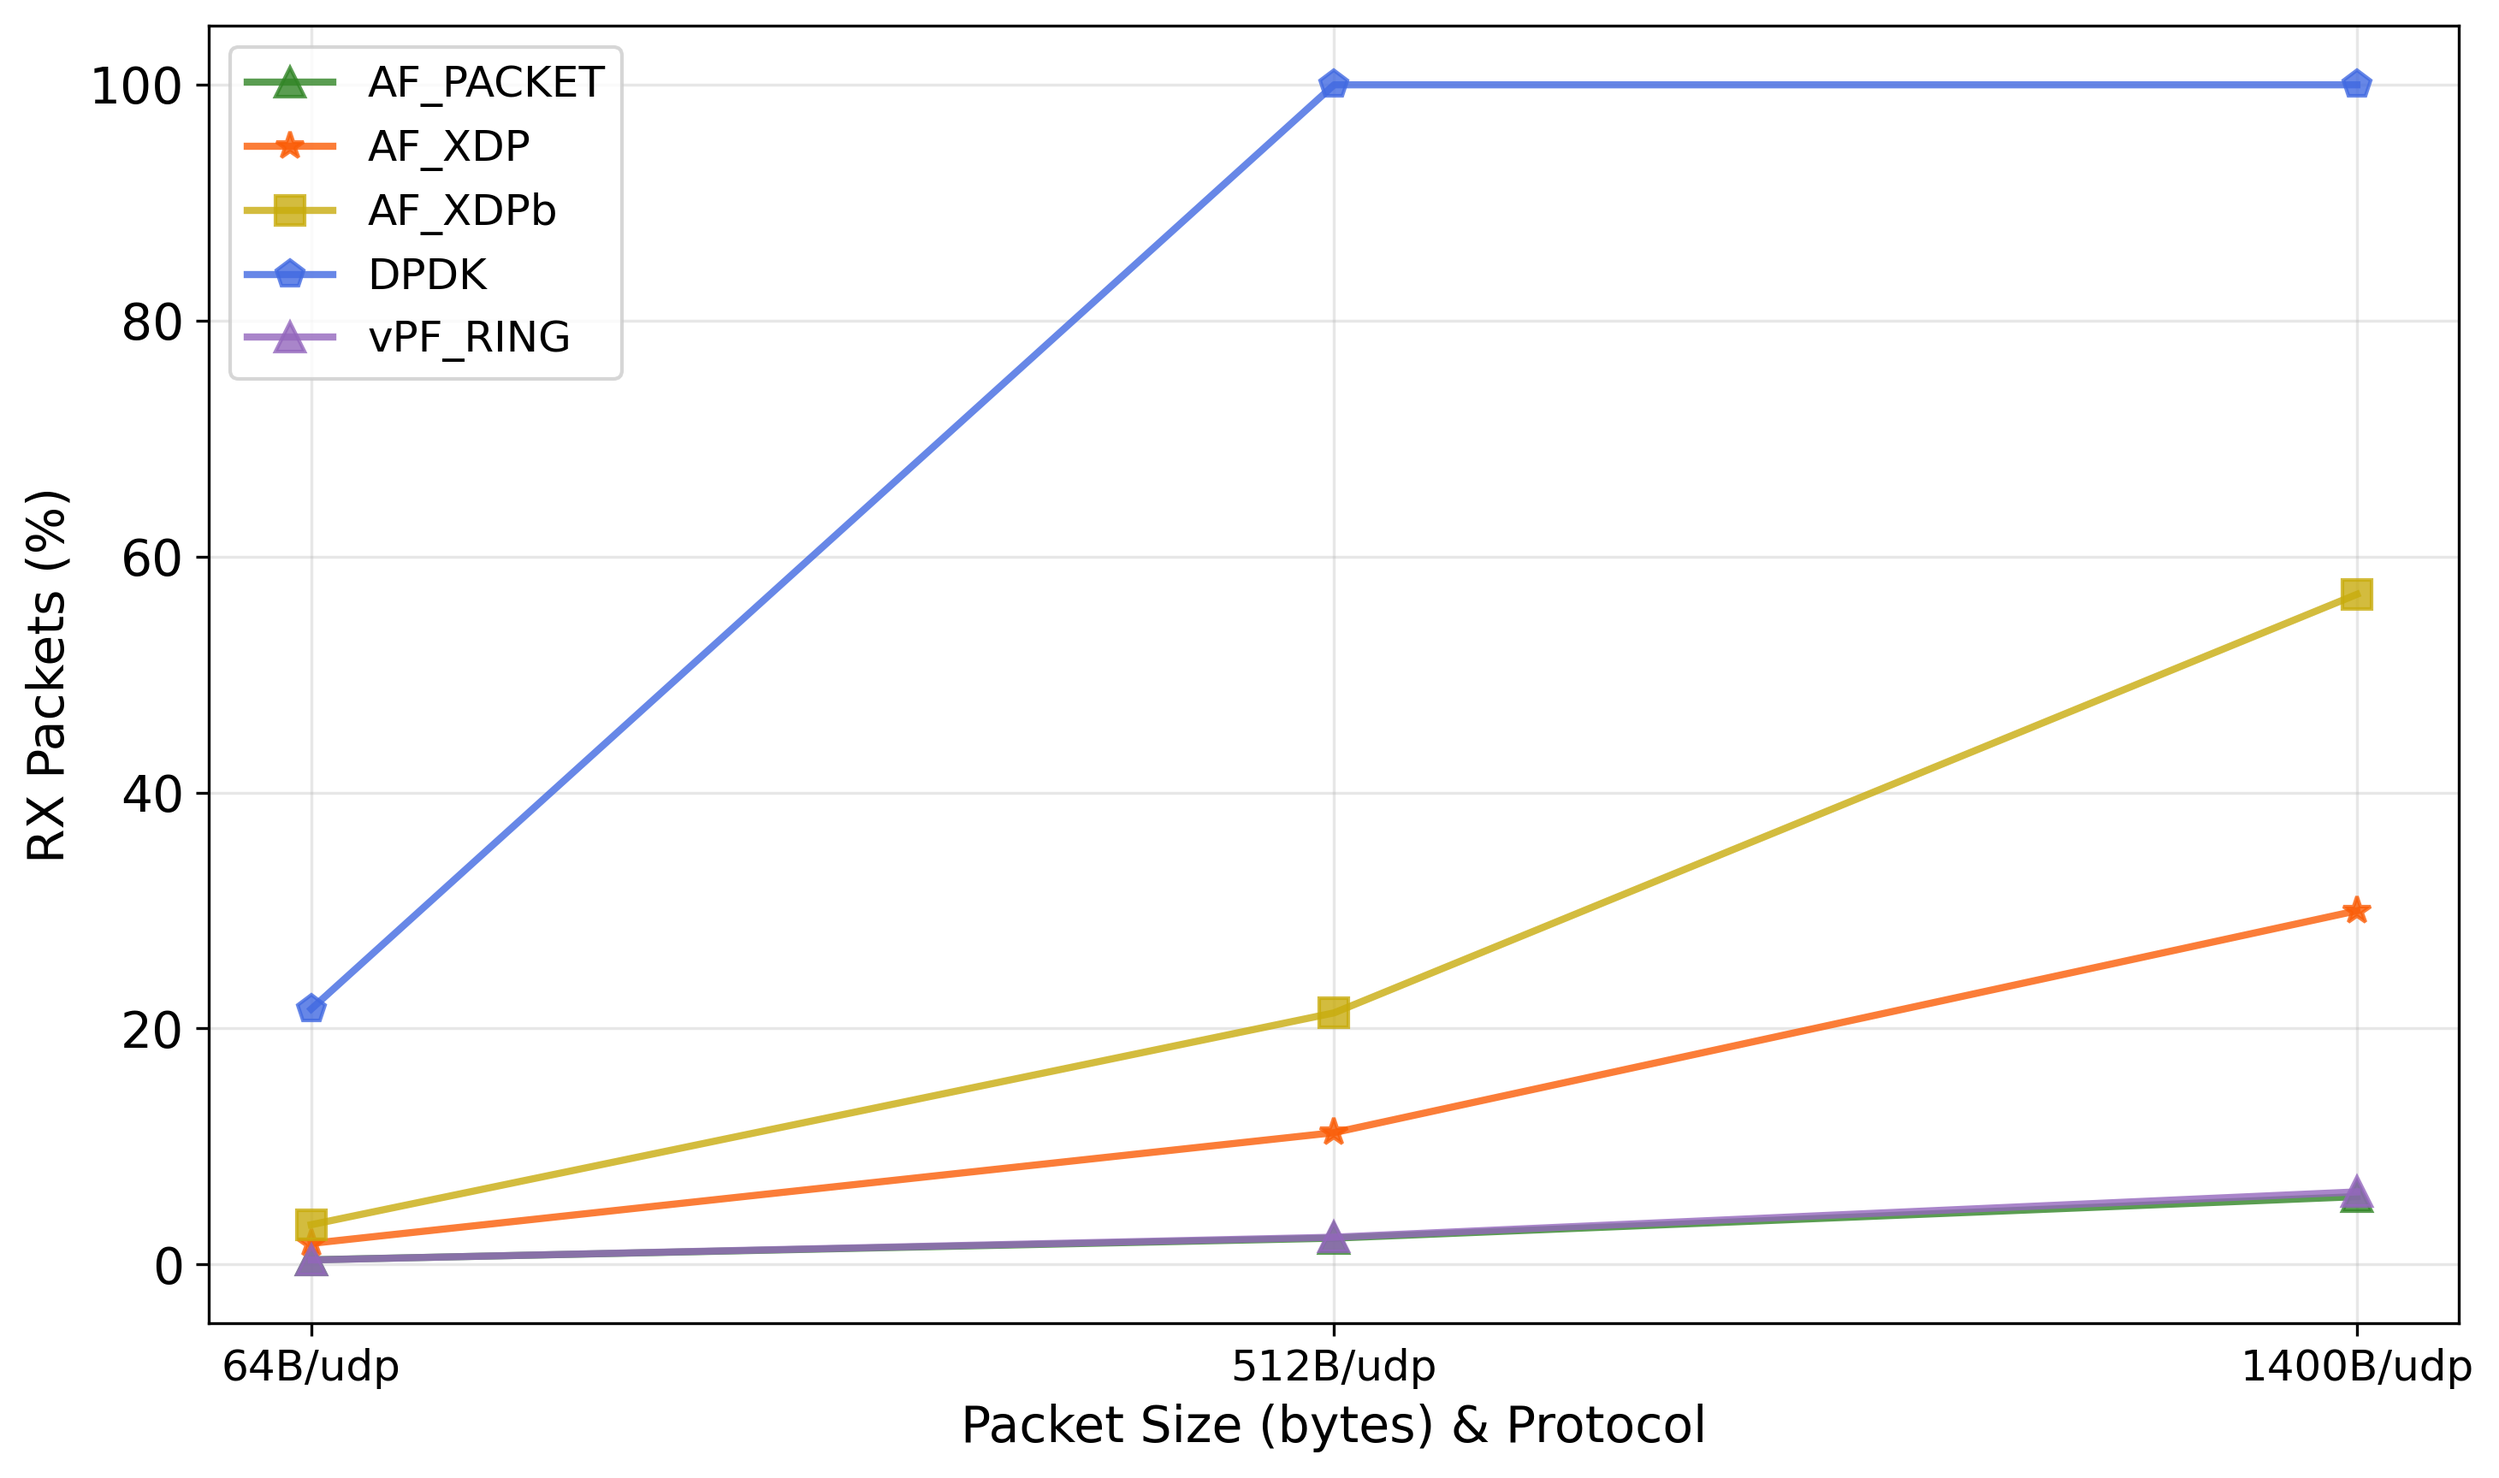
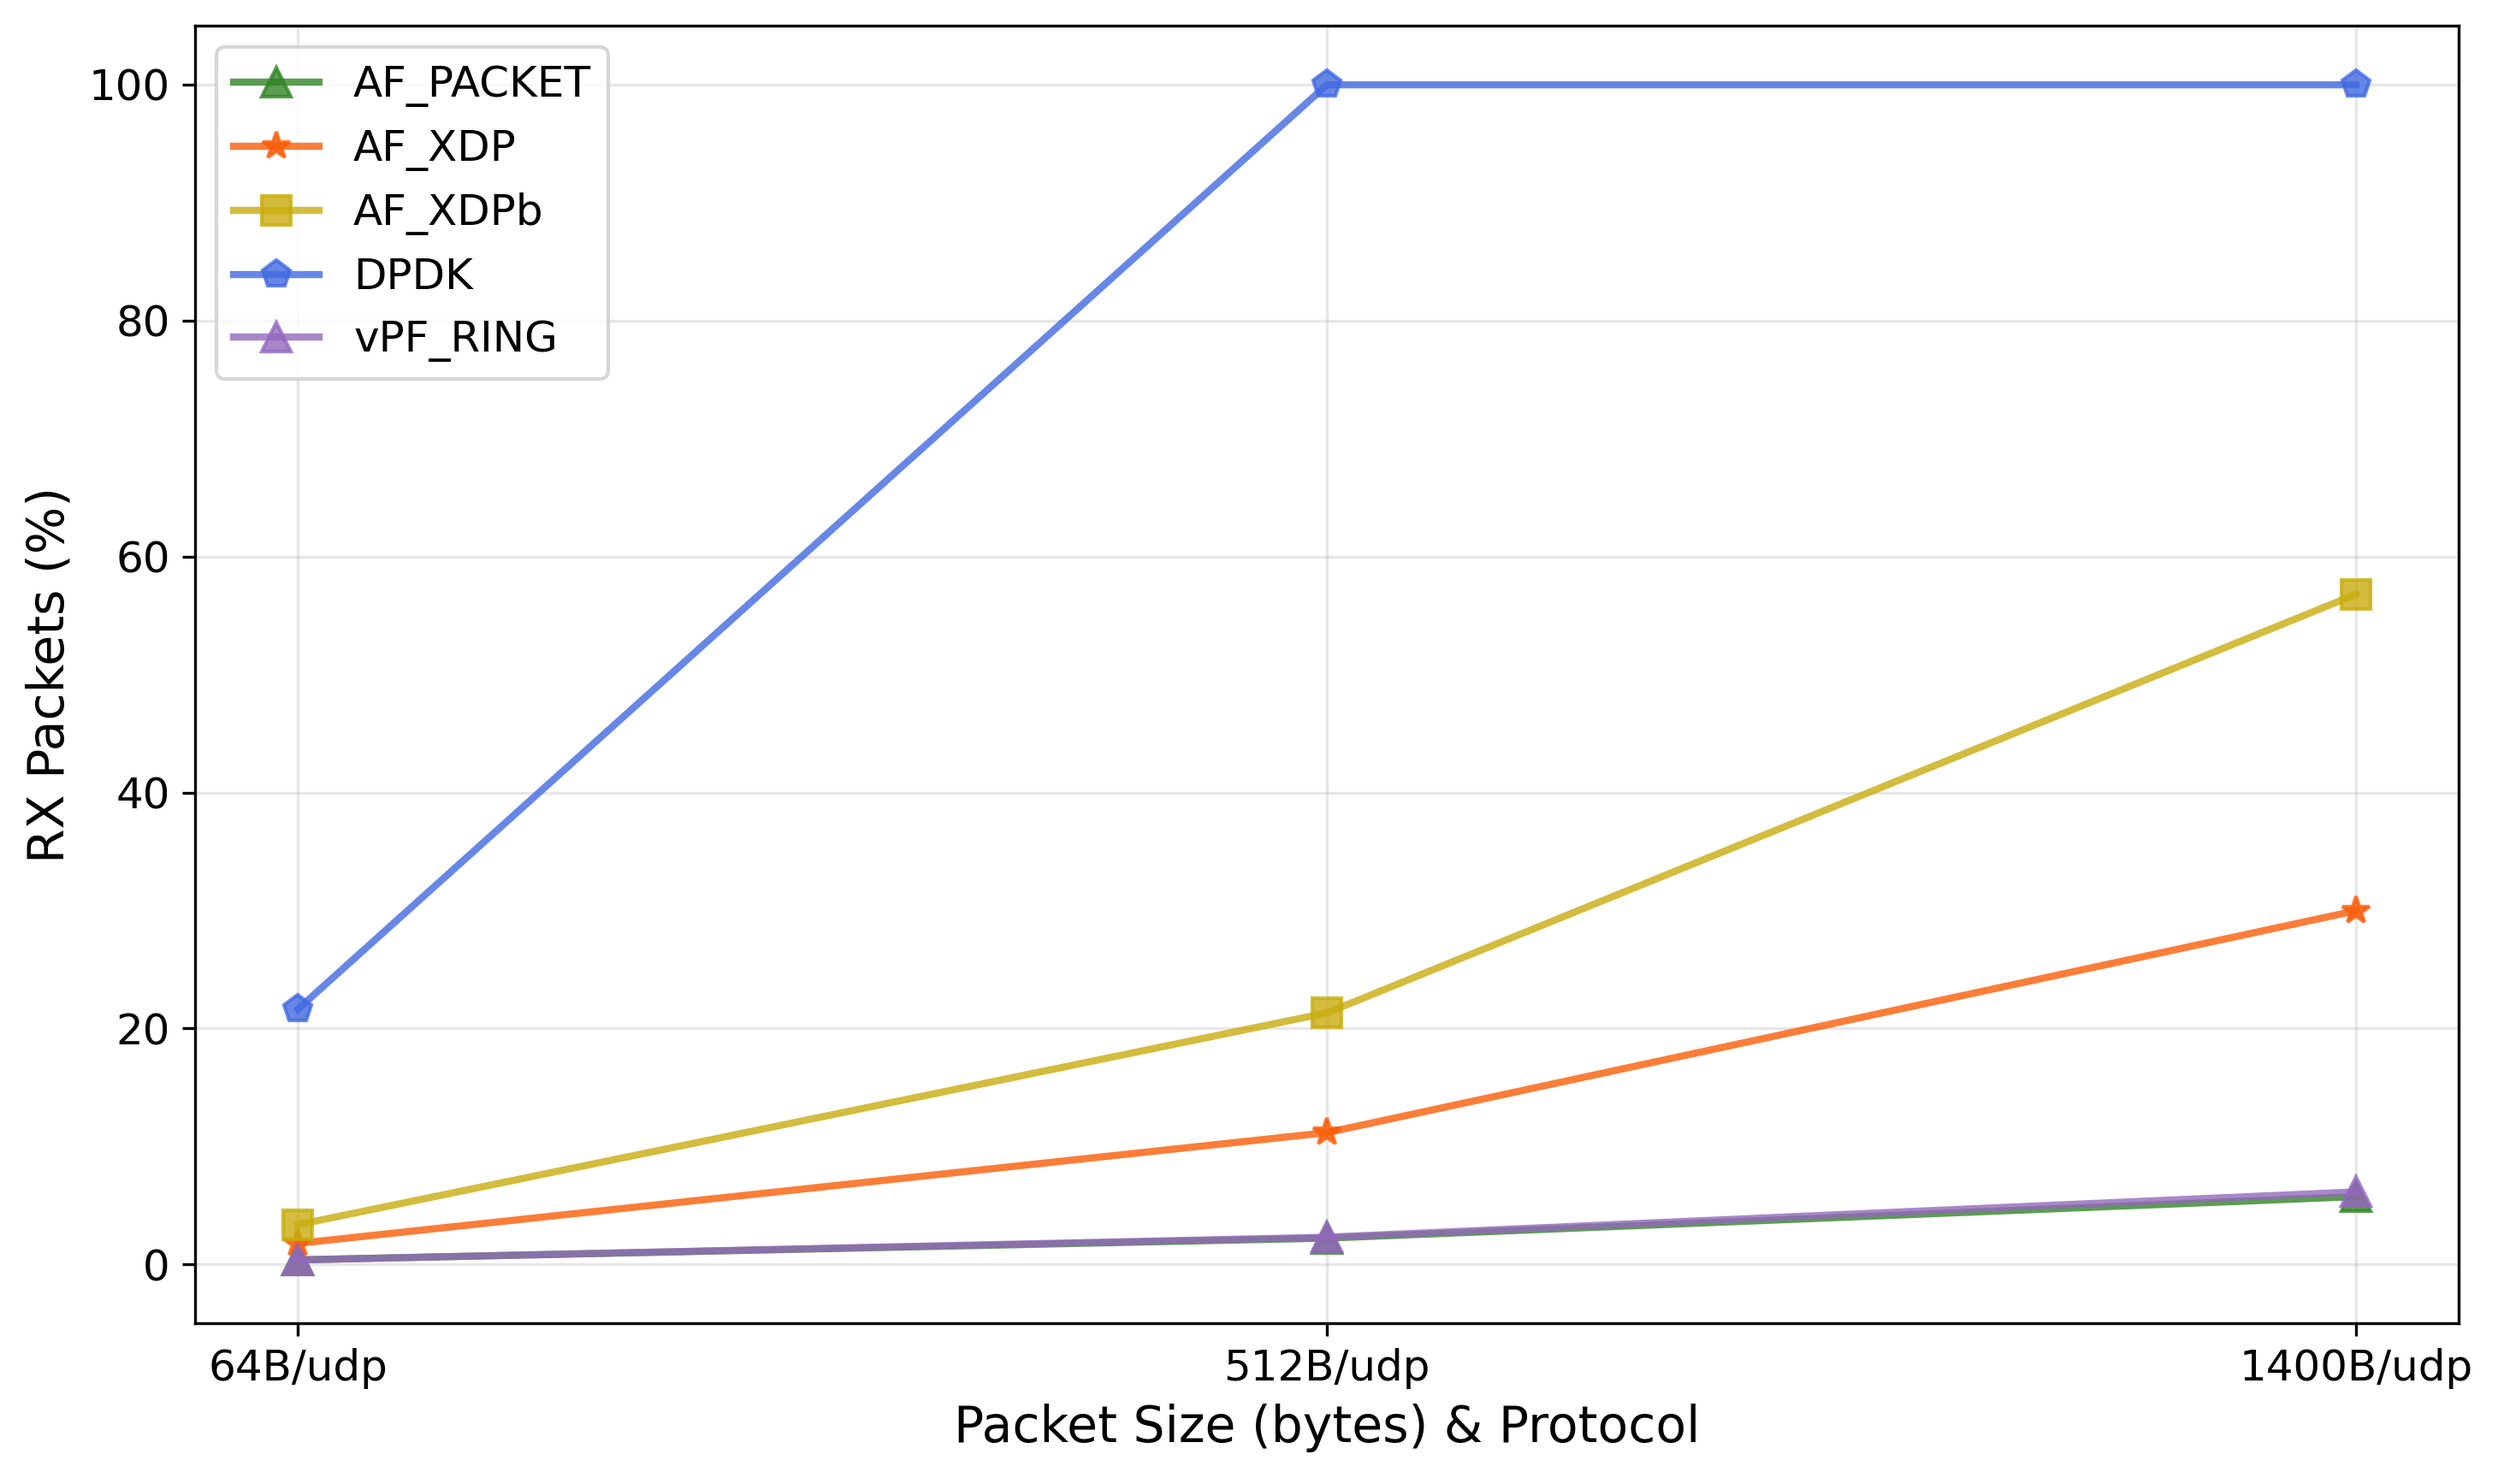
Updated plotting

diff --git a/plotting/plot_suricata_eval.py b/plotting/plot_suricata_eval.py
@@ -147,16 +147,21 @@ def plot_stacked_bars_by_scenario(parsed_results, output_folder):
                 avg_drops = np.mean(drops_pcts) if drops_pcts else 0.0
                 avg_not_rx = np.mean(not_rx_pcts) if not_rx_pcts else 0.0
 
+                sd_inspected = np.std(inspected_pcts) if inspected_pcts else 0.0
+                sd_drops = np.std(drops_pcts) if drops_pcts else 0.0
+                sd_not_rx = np.std(not_rx_pcts) if not_rx_pcts else 0.0
+
+                print(f"{scenario_name} {threads_count} {strategy} SD inspected {sd_inspected} SD drops {sd_drops} SD not rx {sd_not_rx}")
+
                 strategy_metrics.append({
                     "strategy": strategy,
                     "avg_inspected": avg_inspected,
                     "avg_drops": avg_drops,
                     "avg_not_rx": avg_not_rx,
-                    "avg_rx": avg_inspected + avg_drops
+                    "sd_inspected": sd_inspected,
+                    "sd_drops": sd_drops,
+                    "sd_not_rx": sd_not_rx
                 })
-
-            # Sort strategies by total RX percentage (worst to best)
-            # strategy_metrics.sort(key=lambda x: x["avg_rx"])
 
             group_start = group_positions[group_idx] - (total_group_width / 2) + (bar_width / 2)
             
@@ -173,13 +178,16 @@ def plot_stacked_bars_by_scenario(parsed_results, output_folder):
                 label_not_rx = "Not RX by Tool" if group_idx == 0 and bar_idx == 0 else None
 
                 # 1. Bottom bar: Inspected Packets (RX - Drops)
-                ax.bar(x_pos, inspected_val, width=bar_width * 0.75, color=color_inspected, label=label_inspected)
+                ax.bar(x_pos, inspected_val, width=bar_width * 0.75, yerr=metrics["sd_inspected"], error_kw=dict(ecolor=color_inspected, lw=1, capsize=4, capthick=1),
+                       color=color_inspected, label=label_inspected)
 
                 # 2. Middle bar: Packets RX but dropped (Not Inspected)
-                ax.bar(x_pos, drops_val, bottom=inspected_val, width=bar_width * 0.75, color=color_drops, label=label_drops)
+                ax.bar(x_pos, drops_val, bottom=inspected_val, width=bar_width * 0.75, yerr=metrics["sd_drops"], error_kw=dict(ecolor=color_drops, lw=1, capsize=4, capthick=1),
+                       color=color_drops, label=label_drops)
 
                 # 3. Top bar: Packets Not RX
-                ax.bar(x_pos, not_rx_val, bottom=inspected_val + drops_val,width=bar_width * 0.75,color=color_not_rx, label=label_not_rx)
+                ax.bar(x_pos, not_rx_val, bottom=inspected_val + drops_val,width=bar_width * 0.75, yerr=metrics["sd_not_rx"], error_kw=dict(ecolor=color_not_rx, lw=1, capsize=4, capthick=1),
+                        color=color_not_rx, label=label_not_rx)
 
                 # Name of each strategy placed beneath its bar
                 ax.text(x_pos, -2, strat, ha='center',va='top', fontsize=12)
@@ -191,7 +199,9 @@ def plot_stacked_bars_by_scenario(parsed_results, output_folder):
         ax.set_xticklabels([f"{t} Threads" for t in thread_counts], fontweight='bold')
         ax.tick_params(axis='x', pad=25)
 
-        ax.set_ylim(0, 105)
+        ax.set_ylim(0, 110)
+        ax.tick_params(which="major", labelsize=12)
+
         ax.grid(True, axis='y', alpha=0.3)
         ax.legend(title="Packets",loc="upper center", fontsize=12)
 
@@ -231,6 +241,8 @@ if __name__ == "__main__":
     parsed_results = parse_configuration_eval(args.input)
 
     plt.rcParams.update({'font.size': 14})
+    plt.rcParams.update({'legend.title_fontsize': 12})
+
     plot_stacked_bars_by_scenario(parsed_results, args.output)
 
     print("Plotting complete!")

diff --git a/plotting/plot_configuration_eval.py b/plotting/plot_configuration_eval.py
@@ -186,6 +186,8 @@ def plot_by_speed(parsed_results, output_folder):
         ax.set_ylim(-5,105)
         ax.set_xticks(x_positions)
         ax.set_xticklabels([f"{size}B/{proto}" for size, proto in x_labels], fontsize=12)
+        ax.tick_params(which="major", labelsize=12)
+
         ax.grid(True, alpha=0.3)
         ax.legend(fontsize=12)
         
@@ -243,8 +245,12 @@ def plot_configs_by_strategy(parsed_results, output_folder):
             ax.set_xlabel("Speed (Gbps)")
             ax.set_ylabel("RX Packets (%)")
             ax.set_ylim(-5, 105)
+
             ax.set_xticks(x_positions)
             ax.set_xticklabels([f"{speed}" for speed in all_speeds])
+
+            ax.tick_params(which="major", labelsize=12)
+
             ax.grid(True, alpha=0.3)
             ax.legend(title="Config", fontsize=12)
 
@@ -291,7 +297,8 @@ if __name__ == "__main__":
     print(f"Parsed {len(parsed_results)} scenarios")
 
     plt.rcParams.update({'font.size': 14})
-    
+    plt.rcParams.update({'legend.title_fontsize': 12})
+
     # Generate plots grouped by speed
     plot_by_speed(parsed_results, args.output)
     plot_configs_by_strategy(parsed_results, args.output)

diff --git a/plotting/plot_baseline_multi_flows.py b/plotting/plot_baseline_multi_flows.py
@@ -163,6 +163,8 @@ def plot_by_scenario(parsed_results, output_folder):
         ax.set_ylim(-5, 105)
         ax.set_xticks(x_positions)
         ax.set_xticklabels([str(threads_count) for threads_count in thread_counts])
+        ax.tick_params(which="major", labelsize=12)
+
         ax.grid(True, alpha=0.3)
         ax.legend(fontsize=12)
 
@@ -211,6 +213,8 @@ if __name__ == "__main__":
     print(f"Parsed {len(parsed_results)} scenarios")
 
     plt.rcParams.update({'font.size': 14})
+    plt.rcParams.update({'legend.title_fontsize': 12})
+
     plot_by_scenario(parsed_results, args.output)
     
     print("Plotting complete!")
